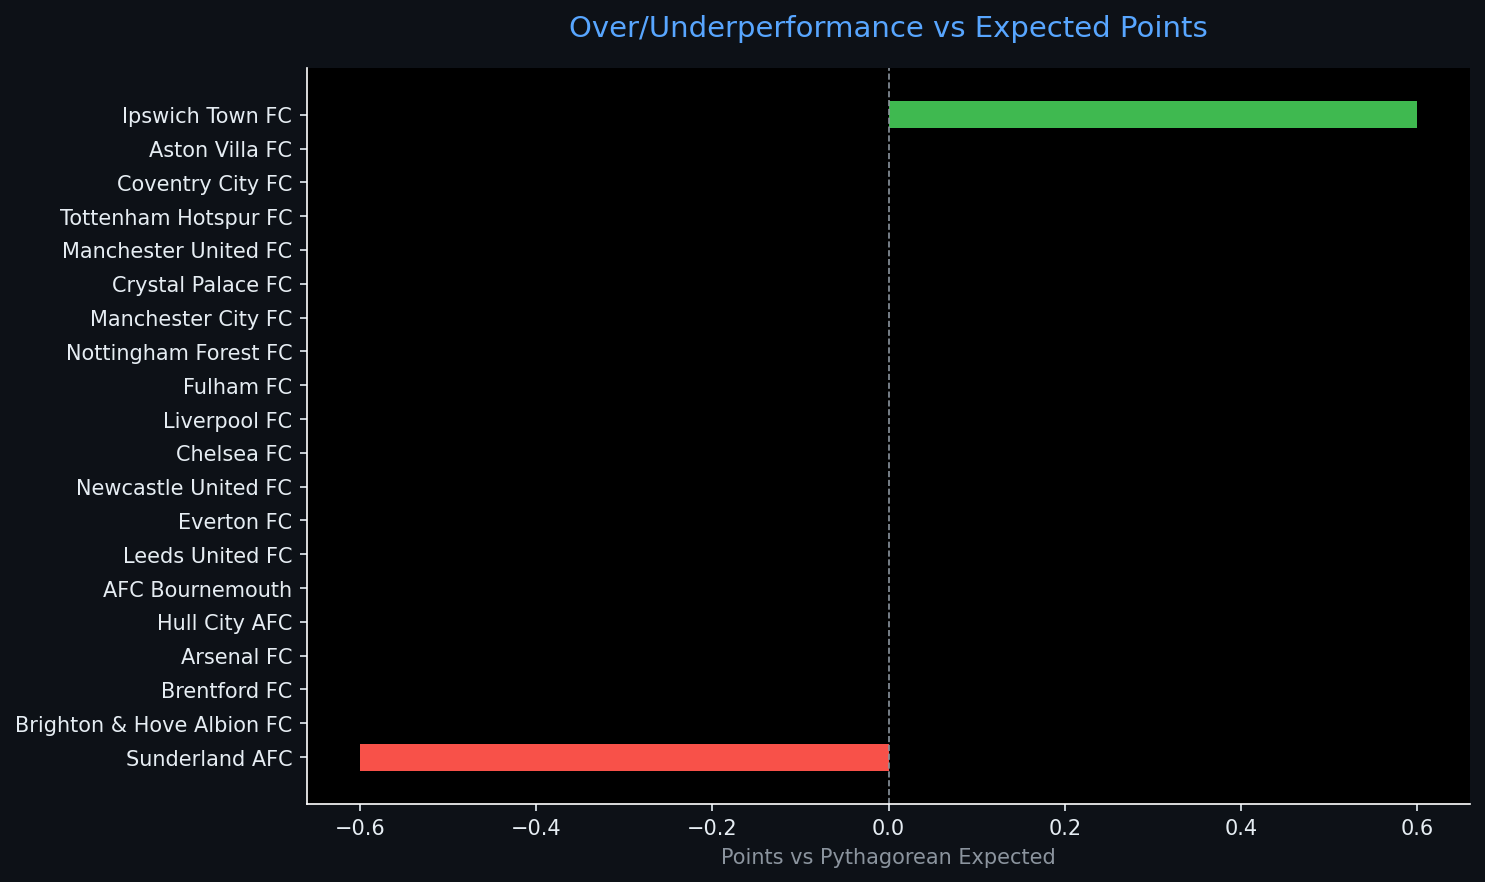
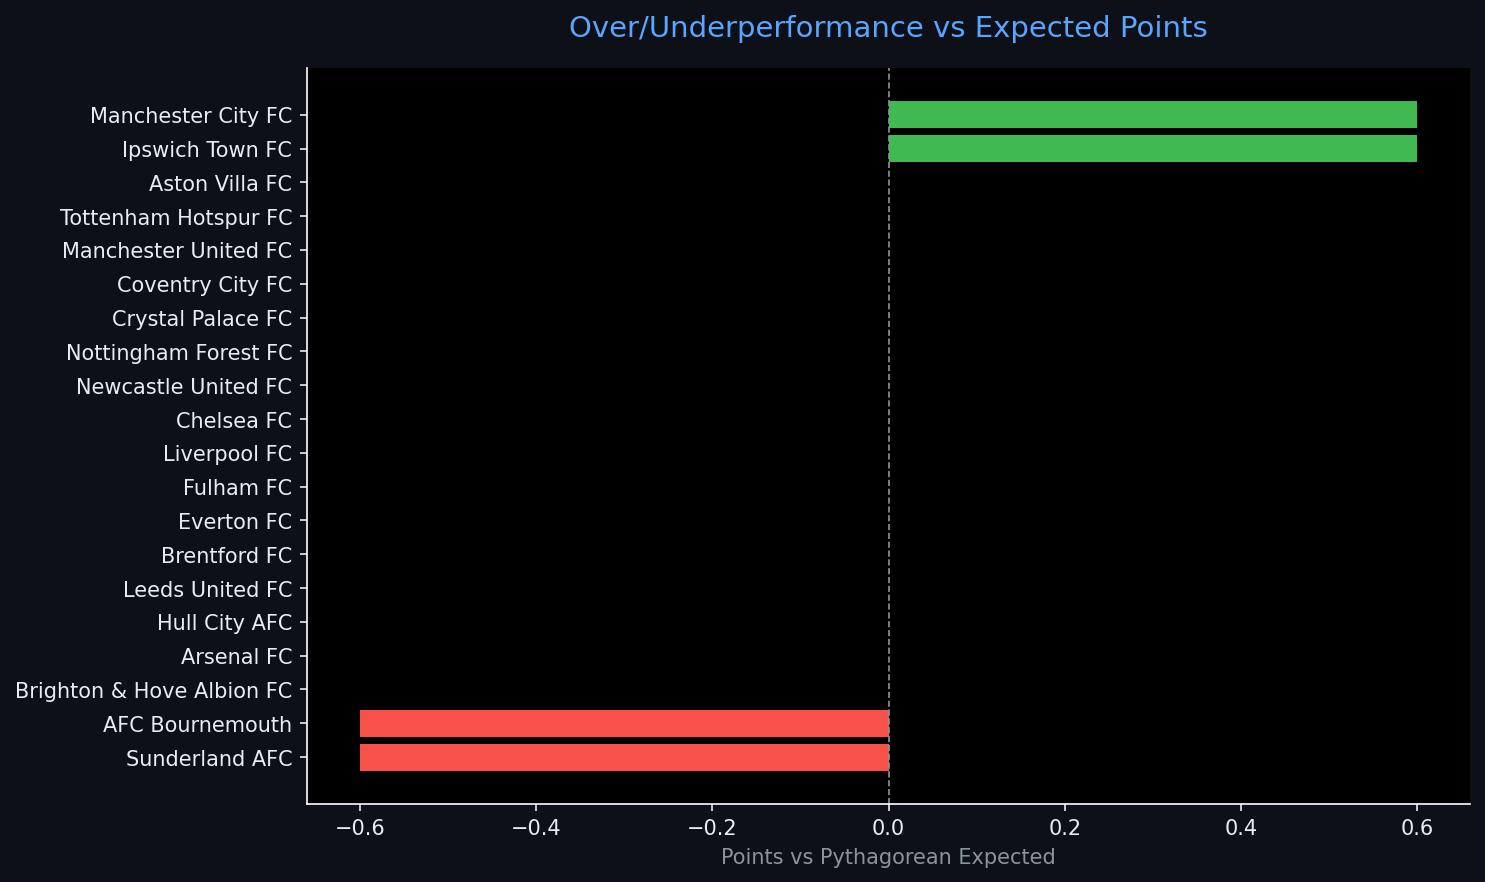
Automated ETL data update: 2026-08-23 16:16

diff --git a/reports/pipeline_report.html b/reports/pipeline_report.html
@@ -4,7 +4,7 @@
 <head>
     <meta charset="UTF-8">
     <meta name="viewport" content="width=device-width, initial-scale=1.0">
-    <title>Sports Data Pipeline Report — 2026-08-23 14:16</title>
+    <title>Sports Data Pipeline Report — 2026-08-23 16:16</title>
     <style>
         body { font-family: 'Segoe UI', sans-serif; background: #0d1117; color: #e6edf3; margin: 0; padding: 2rem; }
         h1   { color: #58a6ff; border-bottom: 1px solid #30363d; padding-bottom: 0.5rem; }
@@ -20,7 +20,7 @@
 </head>
 <body>
     <h1>⚽ Sports Data Pipeline — Automated Report</h1>
-    <p class="meta">Generated: 2026-08-23 14:16 UTC &nbsp;|&nbsp; Sport: <strong>football</strong> &nbsp;|&nbsp; Rows: <strong>20</strong></p>
+    <p class="meta">Generated: 2026-08-23 16:16 UTC &nbsp;|&nbsp; Sport: <strong>football</strong> &nbsp;|&nbsp; Rows: <strong>20</strong></p>
     <span class="badge">Pipeline v1.0.0</span>
     <h2>📊 Data Table</h2>
     <table class="dataframe data-table">
@@ -133,22 +133,22 @@
       <td>NaN</td>
     </tr>
     <tr>
-      <td>7</td>
-      <td>AFC Bournemouth</td>
+      <td>6</td>
+      <td>Manchester City FC</td>
       <td>1</td>
       <td>3</td>
       <td>1</td>
       <td>0</td>
       <td>0</td>
+      <td>2</td>
       <td>1</td>
-      <td>0</td>
       <td>1.000</td>
       <td>3.000</td>
-      <td>1.000</td>
+      <td>0.800</td>
       <td>NaN</td>
     </tr>
     <tr>
-      <td>7</td>
+      <td>8</td>
       <td>Leeds United FC</td>
       <td>1</td>
       <td>3</td>
@@ -163,7 +163,22 @@
       <td>NaN</td>
     </tr>
     <tr>
-      <td>9</td>
+      <td>8</td>
+      <td>Newcastle United FC</td>
+      <td>1</td>
+      <td>3</td>
+      <td>1</td>
+      <td>0</td>
+      <td>0</td>
+      <td>1</td>
+      <td>0</td>
+      <td>1.000</td>
+      <td>3.000</td>
+      <td>1.000</td>
+      <td>NaN</td>
+    </tr>
+    <tr>
+      <td>10</td>
       <td>Chelsea FC</td>
       <td>0</td>
       <td>0</td>
@@ -178,7 +193,7 @@
       <td>NaN</td>
     </tr>
     <tr>
-      <td>9</td>
+      <td>10</td>
       <td>Fulham FC</td>
       <td>0</td>
       <td>0</td>
@@ -193,37 +208,22 @@
       <td>NaN</td>
     </tr>
     <tr>
-      <td>9</td>
-      <td>Liverpool FC</td>
+      <td>12</td>
+      <td>AFC Bournemouth</td>
+      <td>1</td>
       <td>0</td>
       <td>0</td>
       <td>0</td>
-      <td>0</td>
-      <td>0</td>
-      <td>0</td>
-      <td>0</td>
+      <td>1</td>
+      <td>1</td>
+      <td>2</td>
       <td>0.000</td>
       <td>0.000</td>
-      <td>0.000</td>
+      <td>0.200</td>
       <td>NaN</td>
     </tr>
     <tr>
-      <td>9</td>
-      <td>Newcastle United FC</td>
-      <td>0</td>
-      <td>0</td>
-      <td>0</td>
-      <td>0</td>
-      <td>0</td>
-      <td>0</td>
-      <td>0</td>
-      <td>0.000</td>
-      <td>0.000</td>
-      <td>0.000</td>
-      <td>NaN</td>
-    </tr>
-    <tr>
-      <td>13</td>
+      <td>12</td>
       <td>Sunderland AFC</td>
       <td>1</td>
       <td>0</td>
@@ -239,7 +239,7 @@
     </tr>
     <tr>
       <td>14</td>
-      <td>Manchester City FC</td>
+      <td>Liverpool FC</td>
       <td>1</td>
       <td>0</td>
       <td>0</td>
@@ -360,9 +360,9 @@
         
         <tr><td>Total Columns</td><td>29</td></tr>
         
-        <tr><td>Null Values</td><td>102</td></tr>
+        <tr><td>Null Values</td><td>98</td></tr>
         
-        <tr><td>Run Timestamp (UTC)</td><td>2026-08-23T14:16:16.828383</td></tr>
+        <tr><td>Run Timestamp (UTC)</td><td>2026-08-23T16:16:44.078493</td></tr>
         
         <tr><td>ML Features Ready</td><td>False</td></tr>
         
